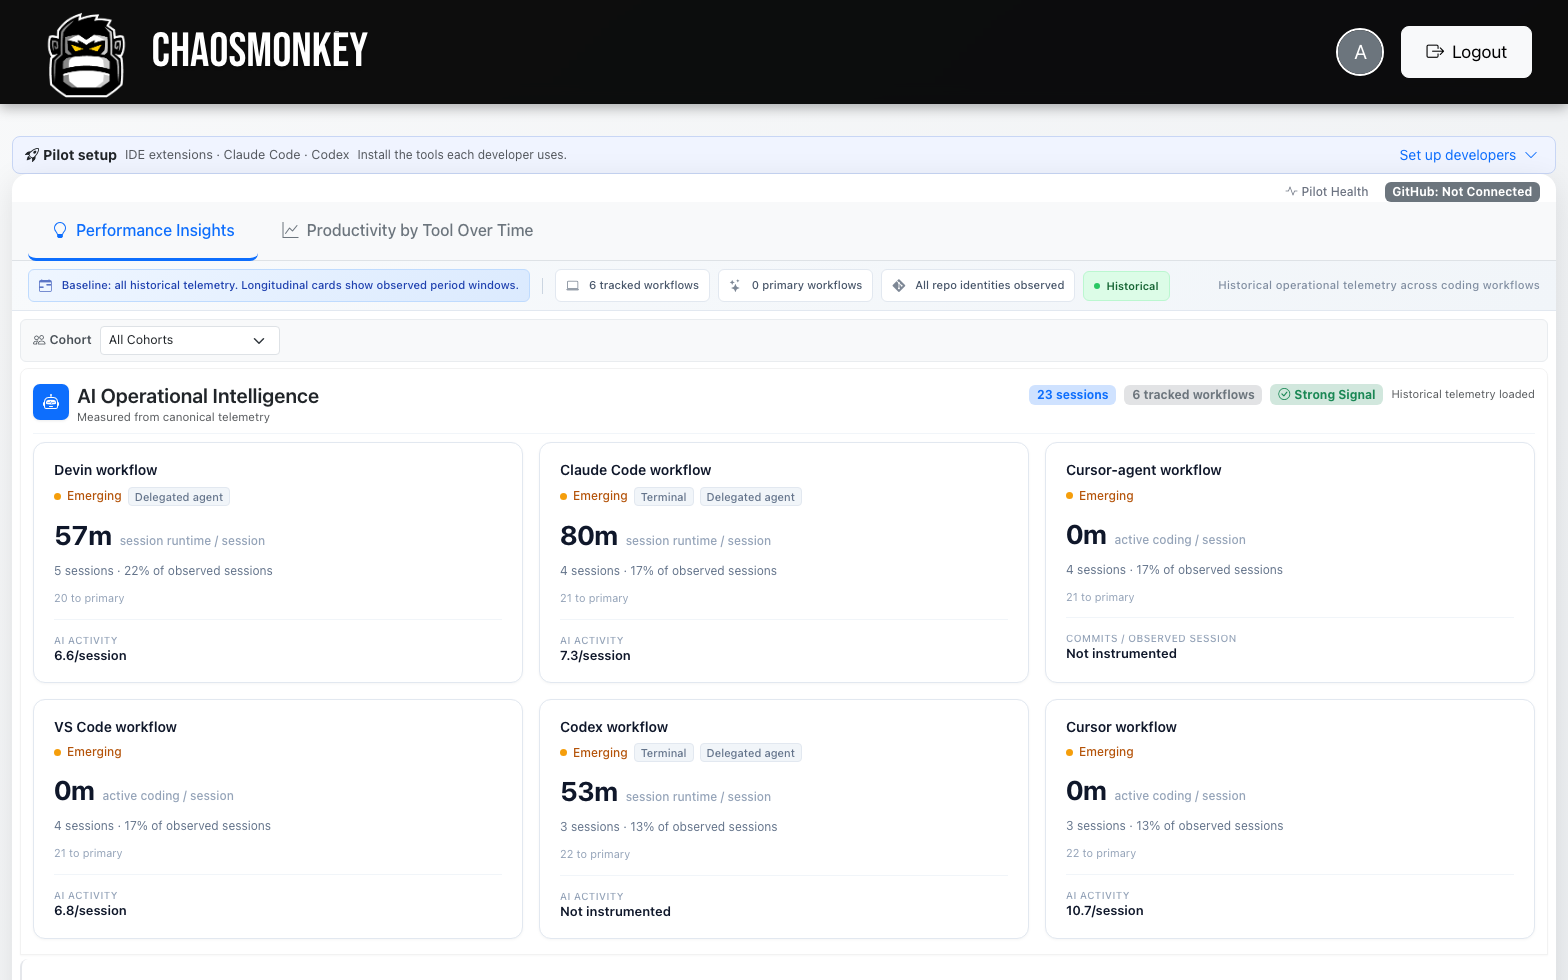
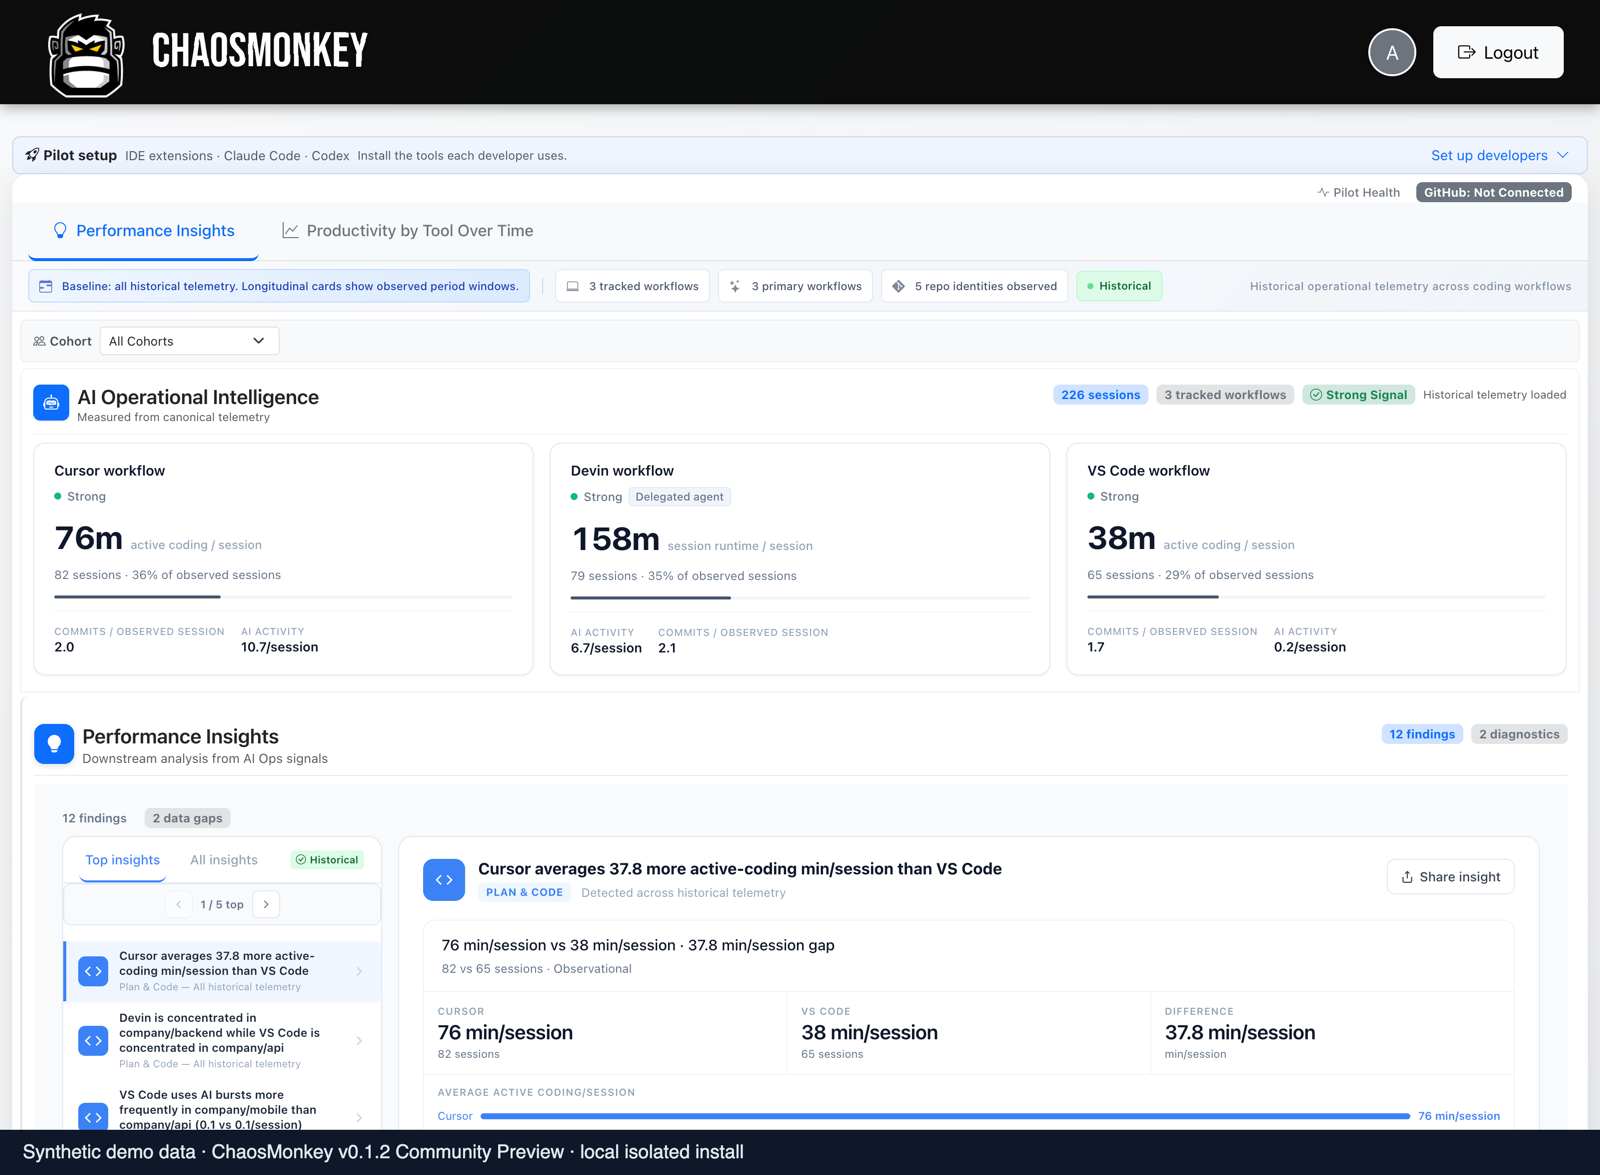
Launch analytics-upgraded homepage with full-width PI findings
Promote the approved oss-homepage-analytics revision (470064d) to the
production homepage: full-width time-series analytics, full-width
qualified Performance Insights, and a three-up supporting row with the
evidence-gated PI state, PBT summary cards, and Pilot Health. All
screenshots are synthetic-labeled captures from a real v0.1.2 install.
Production SEO/OG metadata, CNAME, and all approved sections preserved.

Generated with [Devin](https://devin.ai)

diff --git a/index.html b/index.html
@@ -347,6 +347,7 @@
     .product-shot{ width:100%; display:block; background:#0b0b0d; }
     .shot-caption{ padding:12px 14px 14px; color:rgba(255,255,255,.62); font-size:.92rem; border-top:1px solid rgba(255,255,255,.08); background:rgba(0,0,0,.14); text-align:center; }
     .shot-grid{ display:grid; grid-template-columns:repeat(2, minmax(0,1fr)); gap:22px; }
+    .shot-grid-3{ display:grid; grid-template-columns:repeat(3, minmax(0,1fr)); gap:22px; margin-top:22px; }
 
     .bullets{ list-style:none; padding:0; margin:1.1rem 0 0; display:grid; gap:10px; }
     .bullets li{ display:flex; align-items:flex-start; gap:10px; color:rgba(255,255,255,.72); }
@@ -401,7 +402,7 @@
 
     @media (max-width: 991px){
       .section{ padding:4.5rem 0; }
-      .hero-proof,.cards-3,.shot-grid{ grid-template-columns:1fr; }
+      .hero-proof,.cards-3,.shot-grid,.shot-grid-3{ grid-template-columns:1fr; }
       .cards-2{ grid-template-columns:1fr; }
       .feature-copy{ padding:0; }
       .shot-frame{ margin-top:1.2rem; }
@@ -554,17 +555,46 @@ docker exec -it chaosmonkey \
               <span class="shot-dot"></span><span class="shot-dot"></span><span class="shot-dot"></span>
               <div class="shot-label">AI Operational Intelligence</div>
             </div>
-            <img class="product-shot" src="assets/screens/oss/dashboard.png" alt="AI Operational Intelligence dashboard showing six tracked workflows" loading="lazy" />
-            <figcaption class="shot-caption">Per-workflow session analytics across every tracked tool — synthetic demo data.</figcaption>
+            <img class="product-shot" src="assets/screens/oss/dashboard.png" alt="AI Operational Intelligence dashboard showing per-workflow session analytics across tracked workflows" loading="lazy" />
+            <figcaption class="shot-caption">Per-workflow session analytics across every tracked tool — session runtime, AI activity, adoption share. Synthetic demo data.</figcaption>
+          </figure>
+
+          <figure class="shot-frame reveal" style="grid-column:1 / -1;">
+            <div class="shot-topbar">
+              <span class="shot-dot"></span><span class="shot-dot"></span><span class="shot-dot"></span>
+              <div class="shot-label">Time-series analytics — Productivity by Tool</div>
+            </div>
+            <img class="product-shot" src="assets/screens/oss/pbt-time-series.png" alt="Time-series chart plotting AI activity per session across three coding workflows over six weeks, with period, cohort, developer, repository, and comparison filters" loading="lazy" />
+            <figcaption class="shot-caption">Historical workflow metrics as real chart lines over a six-week window — with metric, period, cohort, developer, repository, and comparison filters. The cost layer reads configured spend, not billing. Synthetic demo data.</figcaption>
+          </figure>
+
+          <figure class="shot-frame reveal" style="grid-column:1 / -1;">
+            <div class="shot-topbar">
+              <span class="shot-dot"></span><span class="shot-dot"></span><span class="shot-dot"></span>
+              <div class="shot-label">Performance Insights — qualified findings</div>
+            </div>
+            <img class="product-shot" src="assets/screens/oss/performance-insights.png" alt="Performance Insights panel showing engine-generated findings with session counts on both sides of a workflow comparison" loading="lazy" />
+            <figcaption class="shot-caption">Findings fire only on sufficient evidence — each is attributed and labeled with its evidence basis. Synthetic demo data.</figcaption>
+          </figure>
+        </div>
+
+        <div class="shot-grid-3">
+          <figure class="shot-frame reveal">
+            <div class="shot-topbar">
+              <span class="shot-dot"></span><span class="shot-dot"></span><span class="shot-dot"></span>
+              <div class="shot-label">Performance Insights — evidence gating</div>
+            </div>
+            <img class="product-shot" src="assets/screens/oss/performance-insights-evidence.png" alt="Performance Insights in the collecting-evidence state, reporting sample size and the session thresholds required to qualify findings" loading="lazy" />
+            <figcaption class="shot-caption">When sample sizes are insufficient, the engine reports what it has — session counts, thresholds, confidence caps — instead of drawing conclusions. Synthetic demo data.</figcaption>
           </figure>
 
           <figure class="shot-frame reveal">
             <div class="shot-topbar">
               <span class="shot-dot"></span><span class="shot-dot"></span><span class="shot-dot"></span>
-              <div class="shot-label">Productivity by tool</div>
+              <div class="shot-label">Productivity by tool — summary cards</div>
             </div>
-            <img class="product-shot" src="assets/screens/oss/productivity-by-tool.png" alt="Productivity by tool cards with per-workflow AI activity" loading="lazy" />
-            <figcaption class="shot-caption">Compare AI activity, session runtime, and adoption across tools — synthetic demo data.</figcaption>
+            <img class="product-shot" src="assets/screens/oss/productivity-by-tool.png" alt="Productivity by tool summary cards with per-workflow AI activity, averages, peaks, and sparklines" loading="lazy" />
+            <figcaption class="shot-caption">Longitudinal per-workflow cards: averages, peaks, and an ops ticker. Synthetic demo data.</figcaption>
           </figure>
 
           <figure class="shot-frame reveal">
